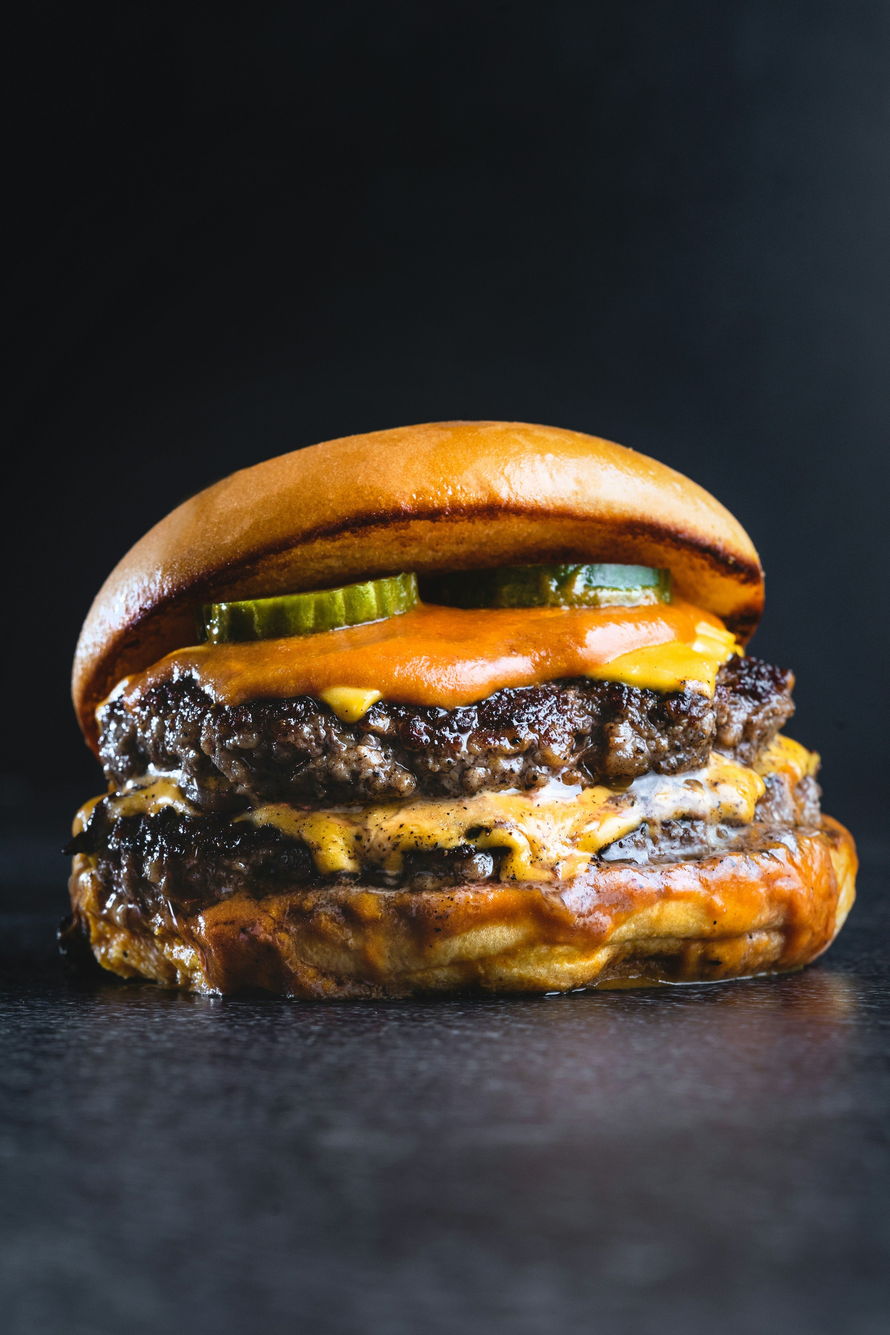
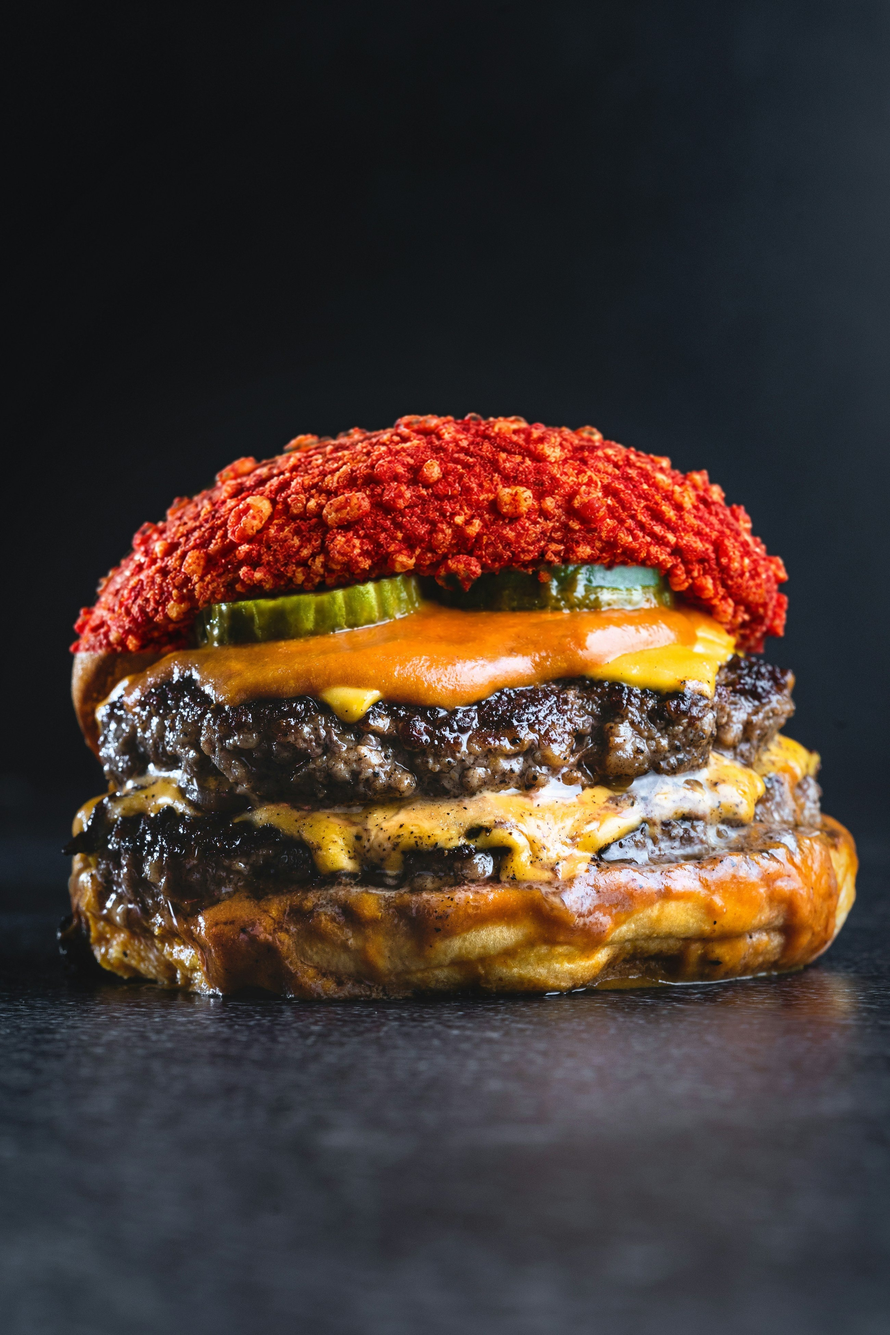
Hero: Mexicana burger (Hot Cheetos crust) in the original shot, finer realistic steam, callout shows Mexicana
Claude-Session: https://claude.ai/code/session_017k3QLaGaFRf6Rk7W6QhgSX

Changed region(s): [[0.0623, 0.3103, 0.9035, 0.4964]]

diff --git a/index.html b/index.html
@@ -1504,7 +1504,7 @@ html,body{scrollbar-width:none;-ms-overflow-style:none}html::-webkit-scrollbar,b
 .g-ord .g-h{font-size:clamp(56px,6vw,96px)}
 .g-ord-tx{max-width:560px;justify-self:end;width:100%}
 .g-ord-stage{position:relative;min-height:clamp(600px,48vw,760px);display:grid;place-items:center;isolation:isolate}
-.g-ord-stage::before{content:"";position:absolute;inset:3% 0 3% 2%;z-index:-3;border-radius:28px;background:linear-gradient(180deg,rgba(10,10,11,.55),rgba(10,10,11,.85)),url(photos/hero-burger.jpg) center 45%/cover;filter:saturate(1.1);box-shadow:inset 0 0 0 1px rgba(255,212,0,.12),0 60px 100px -50px rgba(0,0,0,.9)}
+.g-ord-stage::before{content:"";position:absolute;inset:3% 0 3% 2%;z-index:-3;border-radius:28px;background:linear-gradient(180deg,rgba(10,10,11,.55),rgba(10,10,11,.85)),url(photos/hero-burger.jpg?v=mx1) center 45%/cover;filter:saturate(1.1);box-shadow:inset 0 0 0 1px rgba(255,212,0,.12),0 60px 100px -50px rgba(0,0,0,.9)}
 .g-ord-stage .g-ord-band{position:absolute;left:-2%;right:-6%;bottom:22%;height:120px;z-index:0;background:var(--accent);transform:rotate(-8deg);box-shadow:0 30px 60px -20px rgba(255,212,0,.35);overflow:hidden;display:flex;align-items:center}
 .g-ord-band span{flex:none;font-family:var(--disp);font-size:64px;line-height:1;text-transform:uppercase;color:rgba(13,13,14,.9);white-space:nowrap;padding-right:.5em;animation:gmq 26s linear infinite}
 .g-ord-stage::after{content:"";position:absolute;inset:3% 0 3% 2%;z-index:-1;border-radius:28px;background:radial-gradient(50% 45% at 50% 45%,rgba(0,0,0,0),rgba(0,0,0,.45));pointer-events:none}
@@ -2093,7 +2093,7 @@ html,body{scrollbar-width:none;-ms-overflow-style:none}html::-webkit-scrollbar,b
     </div>
     <div class="hstat"><b><span class="dot y"></span><span id="stMain">Hours at Michigan Ave</span></b><span id="stSub">Dearborn, MI</span><a data-dir href="https://www.google.com/maps/dir/?api=1&amp;destination=Prime+Eatery+13530+Michigan+Ave+%23120+Dearborn+MI+48126" target="_blank" rel="noopener">Directions ↗</a></div>
   </div>
-  <div class="hphoto"><img src="photos/hero-burger.jpg" alt="A double smash burger with pickles and melted American" fetchpriority="high" width="2600" height="3900"></div>
+  <div class="hphoto"><img src="photos/hero-burger.jpg?v=mx1" alt="A double smash burger with pickles and melted American" fetchpriority="high" width="2600" height="3900"></div>
   <canvas class="smoke-gl" id="smokeGL" aria-hidden="true"></canvas>
   <div class="wordmark" aria-hidden="true">Prime Eatery</div>
   <div class="callout" id="callout" aria-live="polite"></div>
@@ -2516,7 +2516,7 @@ function smoke(cfg,seed){
 }
 
 /* ---------- hero: one dish at a time, wordmark behind ---------- */
-var HERO=[{k:'classic-burger',tag:'Signature'}];
+var HERO=[{k:'mexicana-burger',tag:'Signature'}];
 var call=$('#callout'),hi=0,htimer=null;
 function paintCall(){var h=HERO[hi],it=IDX[h.k];
   call.innerHTML='<div class="row"><span>'+esc(h.tag)+'</span><b>$'+it[2]+'</b></div><h3>'+esc(it[1])+'</h3><p>'+esc(it[3])+'</p>'+(HERO.length>1?'<div class="nx">'+HERO.map(function(x,j){return '<button type="button" class="'+(j===hi?'on':'')+'" data-h="'+j+'" aria-label="Show '+esc(IDX[x.k][1])+'"></button>'}).join('')+'</div>':'');
@@ -2532,23 +2532,26 @@ var smokeOn=false,smokeRaf=0,sGL=null;
 (function(){
   var c=$('#smokeGL');if(!c||RM)return;var gl=c.getContext('webgl',{premultipliedAlpha:true,alpha:true,antialias:false});if(!gl)return;
   var vs='attribute vec2 p;void main(){gl_Position=vec4(p,0.,1.);}';
-  var fs='precision mediump float;uniform vec2 r;uniform float t;uniform vec2 src;'+
+  var fs='precision highp float;uniform vec2 r;uniform float t;uniform vec2 src;'+
   'float h(vec2 p){return fract(sin(dot(p,vec2(127.1,311.7)))*43758.5453);}'+
   'float n(vec2 p){vec2 i=floor(p),f=fract(p);f=f*f*(3.-2.*f);return mix(mix(h(i),h(i+vec2(1,0)),f.x),mix(h(i+vec2(0,1)),h(i+vec2(1,1)),f.x),f.y);}'+
   'float fbm(vec2 p){float v=0.,a=.5;mat2 m=mat2(1.6,1.2,-1.2,1.6);for(int i=0;i<5;i++){v+=a*n(p);p=m*p;a*=.5;}return v;}'+
+  'float wisp(vec2 q,float seed,float x0,float ph){float y=q.y;'+
+  ' float tt=t*.9+ph;'+
+  ' vec2 wp=vec2(y*3.1-tt*.16,seed);'+
+  ' float curl=(fbm(wp)-.5)*(.03+y*.9)+(fbm(wp*2.3+3.)-.5)*.06*y+sin(y*9.+tt*.8+seed)*.01*y;'+
+  ' float xc=x0+curl;float th=.0025+y*.03;'+
+  ' float core=exp(-pow((q.x-xc)/th,2.));'+
+  ' float fil=fbm(vec2((q.x-xc)*60./(1.+y*8.),y*9.-tt*.7+seed*9.));'+
+  ' float gaps=smoothstep(.3,.7,fbm(vec2(seed*4.,y*3.5-tt*.35)));'+
+  ' float life=smoothstep(0.,.04,y)*(1.-smoothstep(.08+fract(seed*.37)*.08,.26+fract(seed*.61)*.12,y));'+
+  ' return core*smoothstep(.3,.8,fil)*gaps*life;}'+
   'void main(){vec2 uv=gl_FragCoord.xy/r;float asp=r.x/r.y;vec2 q=vec2((uv.x-src.x)*asp,uv.y-src.y);'+
-  'if(q.y<-.02){gl_FragColor=vec4(0.);return;}'+
-  'float y=q.y;vec2 w=vec2(q.x*2.2,y*1.6-t*.09);'+
-  'float warp=fbm(w*1.3+vec2(0.,-t*.05));'+
-  'float sway=sin(y*5.+t*.35)*.05*y+ (warp-.5)*.28*(y+.15);'+
-  'float x=q.x-sway;'+
-  'float spread=.05+y*.42;'+
-  'float col=exp(-pow(x/spread,2.)*1.6);'+
-  'float d=fbm(vec2(x*3.,y*2.4-t*.16)+warp*1.8);'+
-  'float wisp=smoothstep(.34,.78,d);'+
-  'float fadeIn=smoothstep(-.02,.12,y),fadeOut=1.-smoothstep(.35,.85,y);'+
-  'float a=col*wisp*fadeIn*fadeOut*1.25;'+
-  'gl_FragColor=vec4(vec3(.93,.92,.9)*a,a);}';
+  'if(q.y<0.){gl_FragColor=vec4(0.);return;}'+
+  'float a=wisp(q,1.7,-.06,0.)*.8+wisp(q,4.1,-.012,2.3)+wisp(q,7.3,.03,4.1)*.7+wisp(q,2.9,.075,6.7)*.55+wisp(q,5.5,.0,9.2)*.6;'+
+  'float haze=smoothstep(.55,.95,fbm(vec2(q.x*4.,q.y*2.5-t*.08)))*exp(-pow(q.x/(.07+q.y*.35),2.))*(1.-smoothstep(.1,.4,q.y))*smoothstep(0.,.05,q.y)*.25;'+
+  'a=clamp((a+haze)*.45,0.,.4);'+
+  'gl_FragColor=vec4(vec3(.88,.88,.87)*a,a);}';
   function sh(type,src){var s=gl.createShader(type);gl.shaderSource(s,src);gl.compileShader(s);return s}
   var pr=gl.createProgram();gl.attachShader(pr,sh(gl.VERTEX_SHADER,vs));gl.attachShader(pr,sh(gl.FRAGMENT_SHADER,fs));gl.linkProgram(pr);
   if(!gl.getProgramParameter(pr,gl.LINK_STATUS))return;gl.useProgram(pr);
@@ -2556,9 +2559,9 @@ var smokeOn=false,smokeRaf=0,sGL=null;
   var lp=gl.getAttribLocation(pr,'p');gl.enableVertexAttribArray(lp);gl.vertexAttribPointer(lp,2,gl.FLOAT,false,0,0);
   var ur=gl.getUniformLocation(pr,'r'),ut=gl.getUniformLocation(pr,'t'),us=gl.getUniformLocation(pr,'src');
   gl.enable(gl.BLEND);gl.blendFunc(gl.ONE,gl.ONE_MINUS_SRC_ALPHA);
-  function size(){var s=.5,w=Math.round(c.clientWidth*s),hh=Math.round(c.clientHeight*s);if(c.width!==w||c.height!==hh){c.width=w;c.height=hh;gl.viewport(0,0,w,hh)}}
+  function size(){var s=.75,w=Math.round(c.clientWidth*s),hh=Math.round(c.clientHeight*s);if(c.width!==w||c.height!==hh){c.width=w;c.height=hh;gl.viewport(0,0,w,hh)}}
   var t0=performance.now();
-  var geo=null;W.addEventListener('resize',function(){geo=null});setInterval(function(){geo=null},1500);W.addEventListener('scroll',function(){W.__scl=performance.now()},{passive:true});sGL=function(){if(!geo){size();var ph=$('.hphoto').getBoundingClientRect(),hr=c.getBoundingClientRect();geo=[(ph.left+ph.width/2-hr.left)/hr.width,1-((ph.top+ph.height*.42)-hr.top)/hr.height]}var sx=geo[0],sy=geo[1];
+  var geo=null;W.addEventListener('resize',function(){geo=null});setInterval(function(){geo=null},1500);W.addEventListener('scroll',function(){W.__scl=performance.now()},{passive:true});sGL=function(){if(!geo){size();var ph=$('.hphoto').getBoundingClientRect(),hr=c.getBoundingClientRect();geo=[(ph.left+ph.width/2-hr.left)/hr.width,1-((ph.top+ph.height*.33)-hr.top)/hr.height]}var sx=geo[0],sy=geo[1];
     gl.uniform2f(ur,c.width,c.height);gl.uniform1f(ut,(performance.now()-t0)/1000);gl.uniform2f(us,sx,sy);
     gl.clearColor(0,0,0,0);gl.clear(gl.COLOR_BUFFER_BIT);gl.drawArrays(gl.TRIANGLES,0,3)};
 })();

diff --git a/story.html b/story.html
@@ -2040,6 +2040,33 @@ html,body{scrollbar-width:none;-ms-overflow-style:none}html::-webkit-scrollbar,b
 @media (max-width:700px) and (max-height:720px){.hphoto{width:min(86vw,440px,calc(48svh * .6667))!important}#hero .hero-copy{padding-top:20px}.hero-copy .hc-kick{margin-bottom:12px}.hero-copy .lead{margin-top:12px}.hero-copy .hero-cta{margin-top:16px}}
 @media (max-width:400px){.hero-copy .hc-kick{font-size:9.5px;letter-spacing:.12em}}
 
+/* "Too good" on phones: clean text block, then a tidy three-item plate line */
+@media (max-width:820px) and (orientation:portrait){
+ .g-tg{display:flex!important;flex-direction:column;align-items:center;min-height:0!important;padding-block:104px 64px!important}
+ .g-tg::after{display:none}
+ .g-tg-c{order:1;max-width:560px;padding-inline:24px}
+ .g-tg .g-eb{margin-bottom:16px}
+ .g-tg .g-p{margin-top:16px;font-size:15px;line-height:1.65;max-width:34ch}
+ .g-tg .g-acts{margin-top:26px}
+ .g-tg-food{order:2;position:relative!important;inset:auto!important;width:100%;max-width:560px;height:min(66vw,370px);margin-top:44px}
+ .g-tg-food::before{content:"";position:absolute;left:8%;right:8%;bottom:4%;height:34%;background:radial-gradient(50% 50% at 50% 60%,rgba(255,212,0,.13),rgba(255,212,0,0) 70%);pointer-events:none}
+ .g-tg .tg-i{display:none!important}
+ .g-tg .tgE,.g-tg .tgE2,.g-tg .tgJ{display:block!important;top:auto!important;right:auto!important;bottom:6%!important;--b:0px;--o:1}
+ .g-tg .tgE{left:24%!important;width:52%!important;--r:0deg;z-index:2}
+ .g-tg .tgE2{left:0!important;width:34%!important;--r:-7deg;bottom:4%!important;z-index:1}
+ .g-tg .tgJ{left:auto!important;right:3%!important;width:23%!important;--r:7deg;z-index:1}
+ .g-tg .tg-i[data-from=l]{--fx:-30vw;--fr:-20deg}
+ .g-tg .tg-i[data-from=r]{--fx:30vw;--fr:20deg}
+}
+
+/* 07 map on phones: map on top (pin visible), Google card underneath */
+@media (max-width:700px){
+ .g-map{min-height:0!important;display:flex;flex-direction:column;margin-top:22px}
+ .g-map-frame{position:relative!important;inset:auto!important;height:300px;flex:none}
+ .g-map-tint{inset:0 0 auto 0!important;height:300px}
+ .g-mcard{position:relative!important;left:auto!important;right:auto!important;bottom:auto!important;top:auto!important;width:auto!important;max-width:none!important;margin-top:14px;transform:none!important}
+}
+
 /* ================= story page v2 ================= */
 .sp{overflow-x:clip}
 .sp-serif{margin:0;font-family:"Instrument Serif",Georgia,serif;font-weight:400;font-size:clamp(46px,5.4vw,90px);line-height:1;letter-spacing:-.01em;color:#f2efe8}
@@ -2333,7 +2360,7 @@ footer.fx{position:relative;z-index:1}
   <div class="g-wrap wide-x">
     <div class="sp-sig-hd"><p class="g-eb">04 <b>—</b> What we stand for</p><h2 class="g-h">No shortcuts. <em>Ever.</em></h2></div>
     <div class="sp-bento">
-      <div class="sp-b big"><img src="photos/hero-burger.jpg" alt="" loading="lazy"><div><i>01</i><h3>Made to order</h3><p>Nothing sits under a heat lamp. Patties hit the grill when you order and the fries drop when your ticket prints.</p></div></div>
+      <div class="sp-b big"><img src="photos/hero-burger.jpg?v=mx1" alt="" loading="lazy"><div><i>01</i><h3>Made to order</h3><p>Nothing sits under a heat lamp. Patties hit the grill when you order and the fries drop when your ticket prints.</p></div></div>
       <div class="sp-b y"><i>02</i><h3>100% halal</h3><p>Every protein, every sauce, from the fryer oil up.</p></div>
       <div class="sp-b"><i>03</i><h3>Sauces in house</h3><p>Prime sauce, ranch and Asian Zing made in our kitchen.</p></div>
       <div class="sp-b ph"><img src="photos/tenders-fries.jpg" alt="" loading="lazy"><div><i>04</i><h3>Portions that share</h3></div></div>
